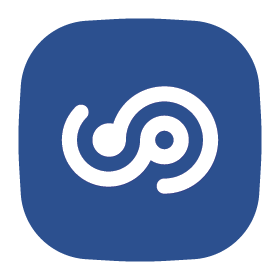
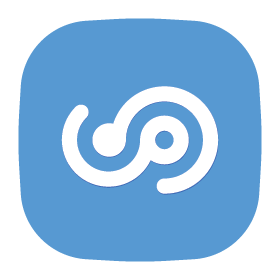
Relayout all components

diff --git a/front-end/tailwind.config.js b/front-end/tailwind.config.js
@@ -16,9 +16,9 @@ export default {
       fontWeight: 'normal',
       borderRadius: {
         none: '0',
-        sm: '.5rem',
-        DEFAULT: '.8rem',
-        lg: '1.2rem',
+        sm: '.3rem',
+        DEFAULT: '.5rem',
+        lg: '.6rem',
         full: '9999px'
       },
       colors: {
@@ -38,22 +38,22 @@ export default {
           dark: '#ffffff'
         },
         primary: {
-          DEFAULT: '#304f8d',
+          DEFAULT: '#037EC9',
           color: '#0176d3',
           sidebar: '#014486',
           border: '#0070d2',
           'border-secondary': '#4194f9'
         },
         'primary-hover': {
-          DEFAULT: '#355492'
+          DEFAULT: '##67A1ED'
         },
         'primary-active': {
-          DEFAULT: '#2B4A88'
+          DEFAULT: '#0375BA'
         },
         'primary-stroke': {
-          light: '#576c94',
-          DEFAULT: '#576c94',
-          dark: '#1e3664'
+          light: '#037BC4',
+          DEFAULT: '#037BC4',
+          dark: '#037BC4'
         },
         secondary: {
           light: '#cee7ff',

diff --git a/front-end/src/index.css b/front-end/src/index.css
@@ -23,12 +23,12 @@
 @layer base {
     h1 {
         font-size: 1.85em;
-        font-weight: 800;
+        font-weight: 650;
         line-height: 1.85rem;
     }
     h2 {
         font-size: 1.4em;
-        font-weight: 700;
+        font-weight: 620;
         line-height: 1.5rem;
     }
     h3 {
@@ -36,12 +36,12 @@
         line-height: 1.5rem;
     }
     h4 {
-        font-weight: 500;
+        font-weight: 550;
         line-height: 1.5rem;
     }
     h5 {
         font-size: 0.85rem;
-        font-weight: 600;
+        font-weight: 500;
         line-height: 1.5rem;
     }
     div, p, span, label {

diff --git a/front-end/index.html b/front-end/index.html
@@ -7,7 +7,8 @@
     <link rel="stylesheet" href="https://fonts.googleapis.com/css2?family=Material+Symbols+Rounded" />
     <title>SaleSync Entry</title>
   </head>
-  <body class="antialiased bg-background-light dark:bg-background-dark">
+  <body class="antialiased bg-gradient-to-b from-primary/[0.05] bg-fixed bg-auto to-background-light dark:to-background-dark">
+
     <div id="entry" class="text-text-light dark:text-text-dark"></div>
     <script type="module" src="/src/main.tsx"></script>
   </body>
